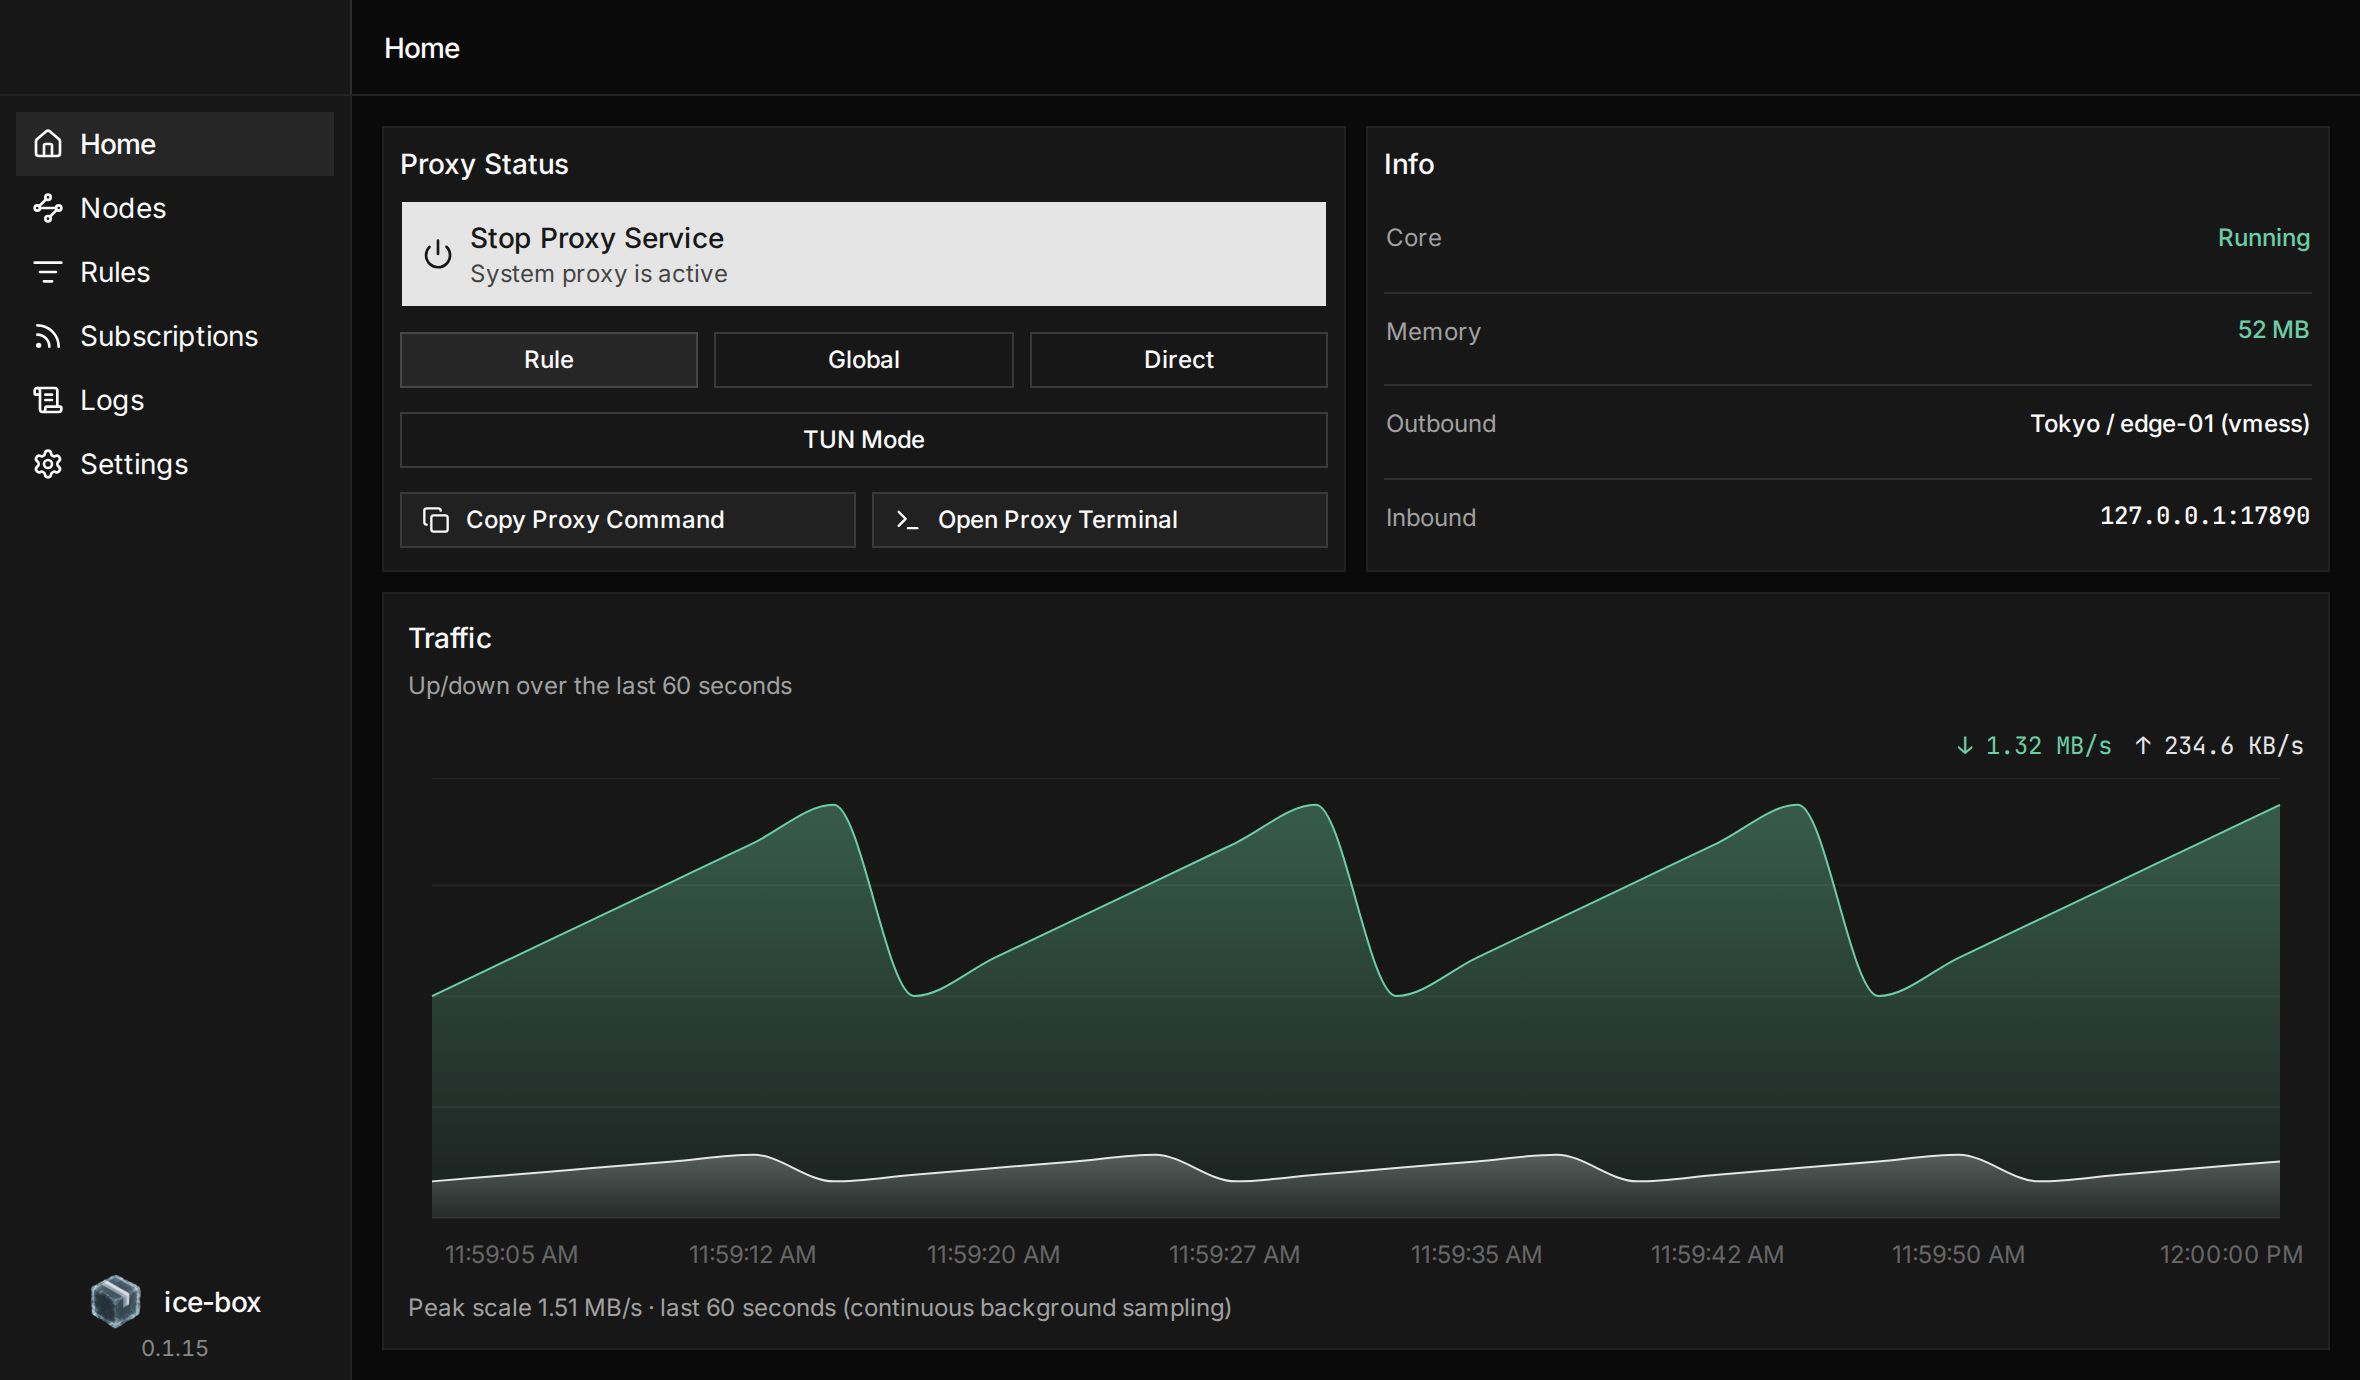
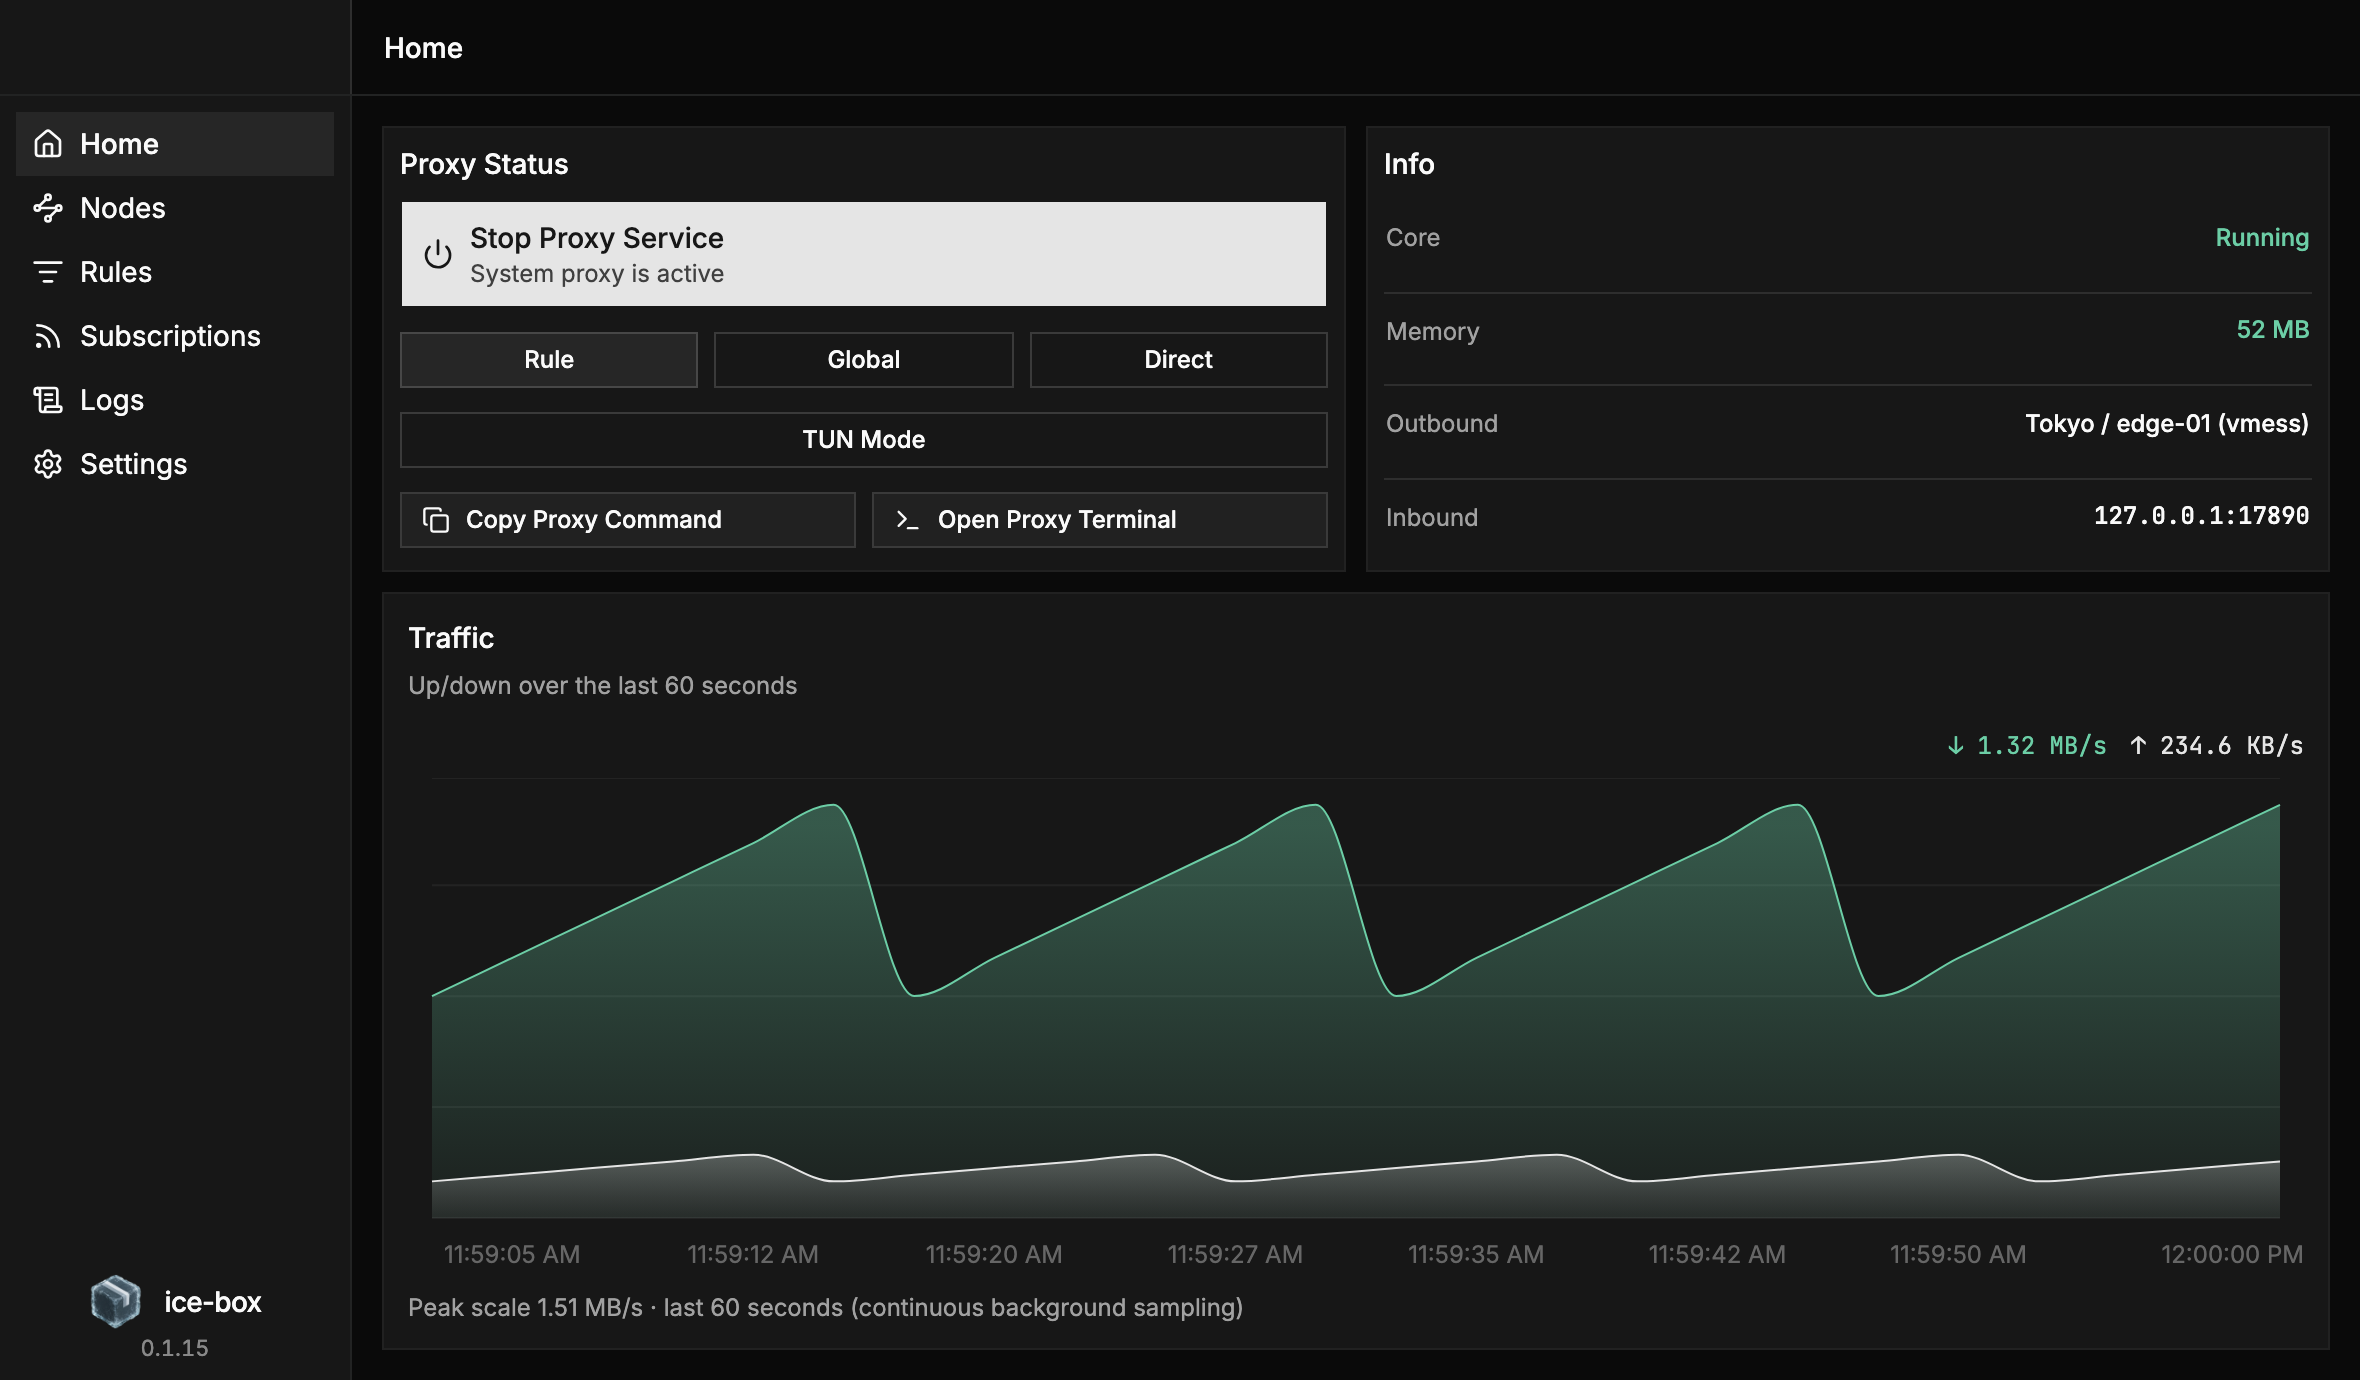
feat(rules): lowercase domain matchers while typing in the custom-rule form
sing-box lowercases the incoming hostname before matching but keeps the rule pattern as written, so a domain / domain_suffix / domain_keyword pattern with uppercase letters can never match. The custom-rule form now lowercases those matchers as they are typed; domain_regex keeps its case because a regex may depend on it.

The field is left alone while an IME is composing — rewriting it makes WebKit re-commit the marked text and the value comes out scrambled — with a `lowercase` class keeping the rendered text lowercase until the composition ends and the real value is synced. The preview and the stored rule always use the lowercased value.

The gate recaptured the demo Home screenshots; the rendered content is unchanged.

diff --git a/apps/desktop/src/components/RuleFormDialog.tsx b/apps/desktop/src/components/RuleFormDialog.tsx
@@ -1,6 +1,6 @@
 // SPDX-License-Identifier: GPL-3.0-or-later
 
-import { useEffect, useState } from "react";
+import { useEffect, useRef, useState } from "react";
 import { Dialog as DialogPrimitive } from "radix-ui";
 
 import { api, type NodeInfo } from "../api/client";
@@ -47,6 +47,7 @@ function RuleFormDialog({
   const [outbound, setOutbound] = useState("direct");
   const [nodeOptions, setNodeOptions] = useState<NodeInfo[]>([]);
   const [customError, setCustomError] = useState<string | null>(null);
+  const composingRef = useRef(false);
 
   useEffect(() => {
     if (!open) return;
@@ -66,9 +67,14 @@ function RuleFormDialog({
   }, [open]);
 
   const previewDef = RULE_MATCHER_DEFS.find((d) => d.key === matcherKey);
+  // sing-box lowercases the incoming hostname but matches the pattern as
+  // written, so an uppercase pattern would never match. Show the value
+  // lowercased as it is typed, and keep the rule itself lowercase too.
+  const lowercaseInput = previewDef?.lowercase === true;
+  const matcherText = lowercaseInput ? matcherValue.toLowerCase() : matcherValue;
   const previewRule = buildCustomRule(
     matcherKey,
-    previewDef?.kind === "boolean" ? matcherBool : matcherValue,
+    previewDef?.kind === "boolean" ? matcherBool : matcherText,
     outbound,
   );
 
@@ -160,10 +166,30 @@ function RuleFormDialog({
                   id="rule-match-value"
                   type="text"
                   aria-label={t("ruleForm.matchValue")}
+                  className={lowercaseInput ? "lowercase" : undefined}
                   placeholder={previewDef?.placeholder}
                   value={matcherValue}
+                  onCompositionStart={() => {
+                    composingRef.current = true;
+                  }}
+                  onCompositionEnd={(e) => {
+                    composingRef.current = false;
+                    if (lowercaseInput) {
+                      setMatcherValue(e.currentTarget.value.toLowerCase());
+                    }
+                  }}
                   onChange={(e) => {
-                    setMatcherValue(e.target.value);
+                    const next = e.target.value;
+                    // Rewriting the field in the middle of an IME composition
+                    // makes WebKit re-commit the marked text and the value comes
+                    // out scrambled, so leave the DOM alone while composing —
+                    // the `lowercase` class still renders it lowercased — and
+                    // sync the real value once the composition ends.
+                    setMatcherValue(
+                      lowercaseInput && !composingRef.current
+                        ? next.toLowerCase()
+                        : next,
+                    );
                     setCustomError(null);
                   }}
                 />

diff --git a/apps/desktop/src/pages/Rules.test.tsx b/apps/desktop/src/pages/Rules.test.tsx
@@ -371,6 +371,45 @@ describe("Rules", () => {
     expect(addCustomRule).not.toHaveBeenCalled();
   });
 
+  it("lowercases domain matcher input while typing", async () => {
+    const { container } = render(<Rules />);
+    const view = within(container);
+    await waitFor(() => {
+      expect(view.getByText("youtube.com")).toBeInTheDocument();
+    });
+
+    fireEvent.click(view.getByRole("button", { name: t("rules.addCustom") }));
+    const input = screen.getByLabelText(t("ruleForm.matchValue")) as HTMLInputElement;
+    fireEvent.change(input, { target: { value: "BiliVideo.COM" } });
+    expect(input.value).toBe("bilivideo.com");
+
+    fireEvent.change(screen.getByLabelText(t("ruleForm.matcherType")), {
+      target: { value: "domain_regex" },
+    });
+    const regexInput = screen.getByLabelText(t("ruleForm.matchValue")) as HTMLInputElement;
+    fireEvent.change(regexInput, { target: { value: "[A-Z]+\\.CN$" } });
+    expect(regexInput.value).toBe("[A-Z]+\\.CN$");
+  });
+
+  it("leaves IME composition text intact and lowercases it on completion", async () => {
+    const { container } = render(<Rules />);
+    const view = within(container);
+    await waitFor(() => {
+      expect(view.getByText("youtube.com")).toBeInTheDocument();
+    });
+
+    fireEvent.click(view.getByRole("button", { name: t("rules.addCustom") }));
+    const input = screen.getByLabelText(t("ruleForm.matchValue")) as HTMLInputElement;
+    fireEvent.compositionStart(input);
+    // Rewriting the field while the IME owns it makes WebKit re-commit the
+    // marked text, so the value must stay untouched until the composition ends.
+    fireEvent.change(input, { target: { value: "BiliVideo.COM" }, isComposing: true });
+    expect(input.value).toBe("BiliVideo.COM");
+
+    fireEvent.compositionEnd(input);
+    expect(input.value).toBe("bilivideo.com");
+  });
+
   it("resets the form after a successful add", async () => {
     const { container } = render(<Rules />);
     const view = within(container);

diff --git a/apps/desktop/src/lib/rules.ts b/apps/desktop/src/lib/rules.ts
@@ -101,6 +101,12 @@ export type RuleMatcherDef = {
   label: MessageKey;
   kind: "array" | "boolean";
   placeholder: string;
+  /**
+   * Lowercase typed values so the input matches how sing-box compares them:
+   * the domain matchers lowercase the incoming hostname but not the pattern,
+   * so an uppercase pattern would never match.
+   */
+  lowercase?: boolean;
 };
 
 /**
@@ -109,9 +115,9 @@ export type RuleMatcherDef = {
  * geoip → rule-set expansion at build time. Use `rule_set` instead.
  */
 export const RULE_MATCHER_DEFS: RuleMatcherDef[] = [
-  { key: "domain", label: "ruleType.domain", kind: "array", placeholder: "example.com" },
-  { key: "domain_suffix", label: "ruleType.domainSuffix", kind: "array", placeholder: "google.com" },
-  { key: "domain_keyword", label: "ruleType.domainKeyword", kind: "array", placeholder: "youtube" },
+  { key: "domain", label: "ruleType.domain", kind: "array", placeholder: "example.com", lowercase: true },
+  { key: "domain_suffix", label: "ruleType.domainSuffix", kind: "array", placeholder: "google.com", lowercase: true },
+  { key: "domain_keyword", label: "ruleType.domainKeyword", kind: "array", placeholder: "youtube", lowercase: true },
   { key: "domain_regex", label: "ruleType.domainRegex", kind: "array", placeholder: ".*\\.cn$" },
   { key: "ip_cidr", label: "ruleType.ipCidr", kind: "array", placeholder: "10.0.0.0/8" },
   { key: "ip_is_private", label: "ruleType.ipIsPrivate", kind: "boolean", placeholder: "" },
